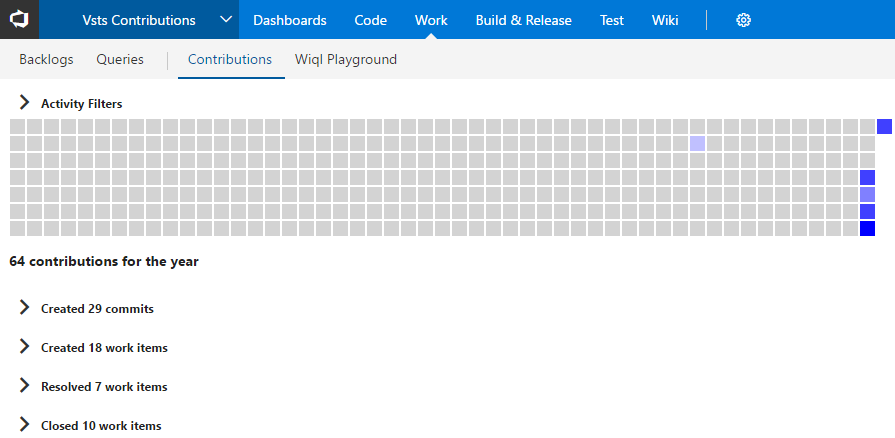
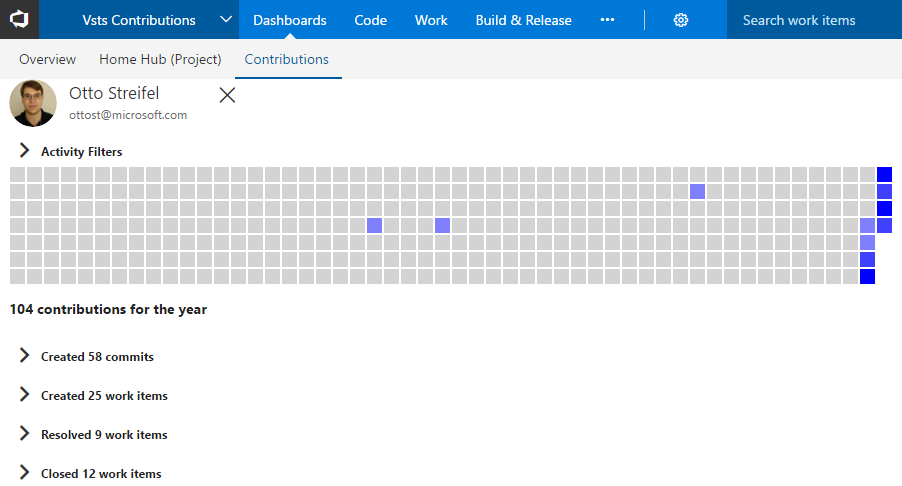
v1.1.1 Release Identity filter

diff --git a/scripts/events.ts b/scripts/events.ts
@@ -25,7 +25,11 @@ export function flushNow() {
 export function trackEvent(name: string, properties?: IProperties, measurements?: IMeasurements) {
     const insights = getInsights();
     if (insights) {
-        properties = { ...(properties || {}), host: VSS.getWebContext().host.authority };
+        properties = {
+            ...(properties || {}),
+            host: VSS.getWebContext().host.authority,
+            contributionLocation: window['contributionLocation']
+        };
         insights.trackEvent(name, properties, measurements);
         flush.reset();
     }

diff --git a/contributions.html b/contributions.html
@@ -12,6 +12,7 @@
         });
         
         window.appInsights=appInsights;
+        window.contributionLocation="hub";
         appInsights.trackPageView();
     </script>
     <script src="dist/VSS.SDK.min.js"></script>

diff --git a/details.md b/details.md
@@ -18,10 +18,11 @@ Click a day to view only the contributions that happened on that specific day
 Click that same day again to go back to viewing all contributions for the year
 
 ## Planned (in order)
-- filter by user (uses the current user right now)
+- Include dashboard widget
 - Include tfvc type contributions
 - Validate and release for on premise installations (url formats in links expected to create issues)
 
 ## Version History
+(06/14/2017) v1.1.1 Select identity for contributions  
 (06/11/2017) v1.0.9 Fix issue retrieving commits  
 (06/11/2017) v1.0.1 Initial Release
